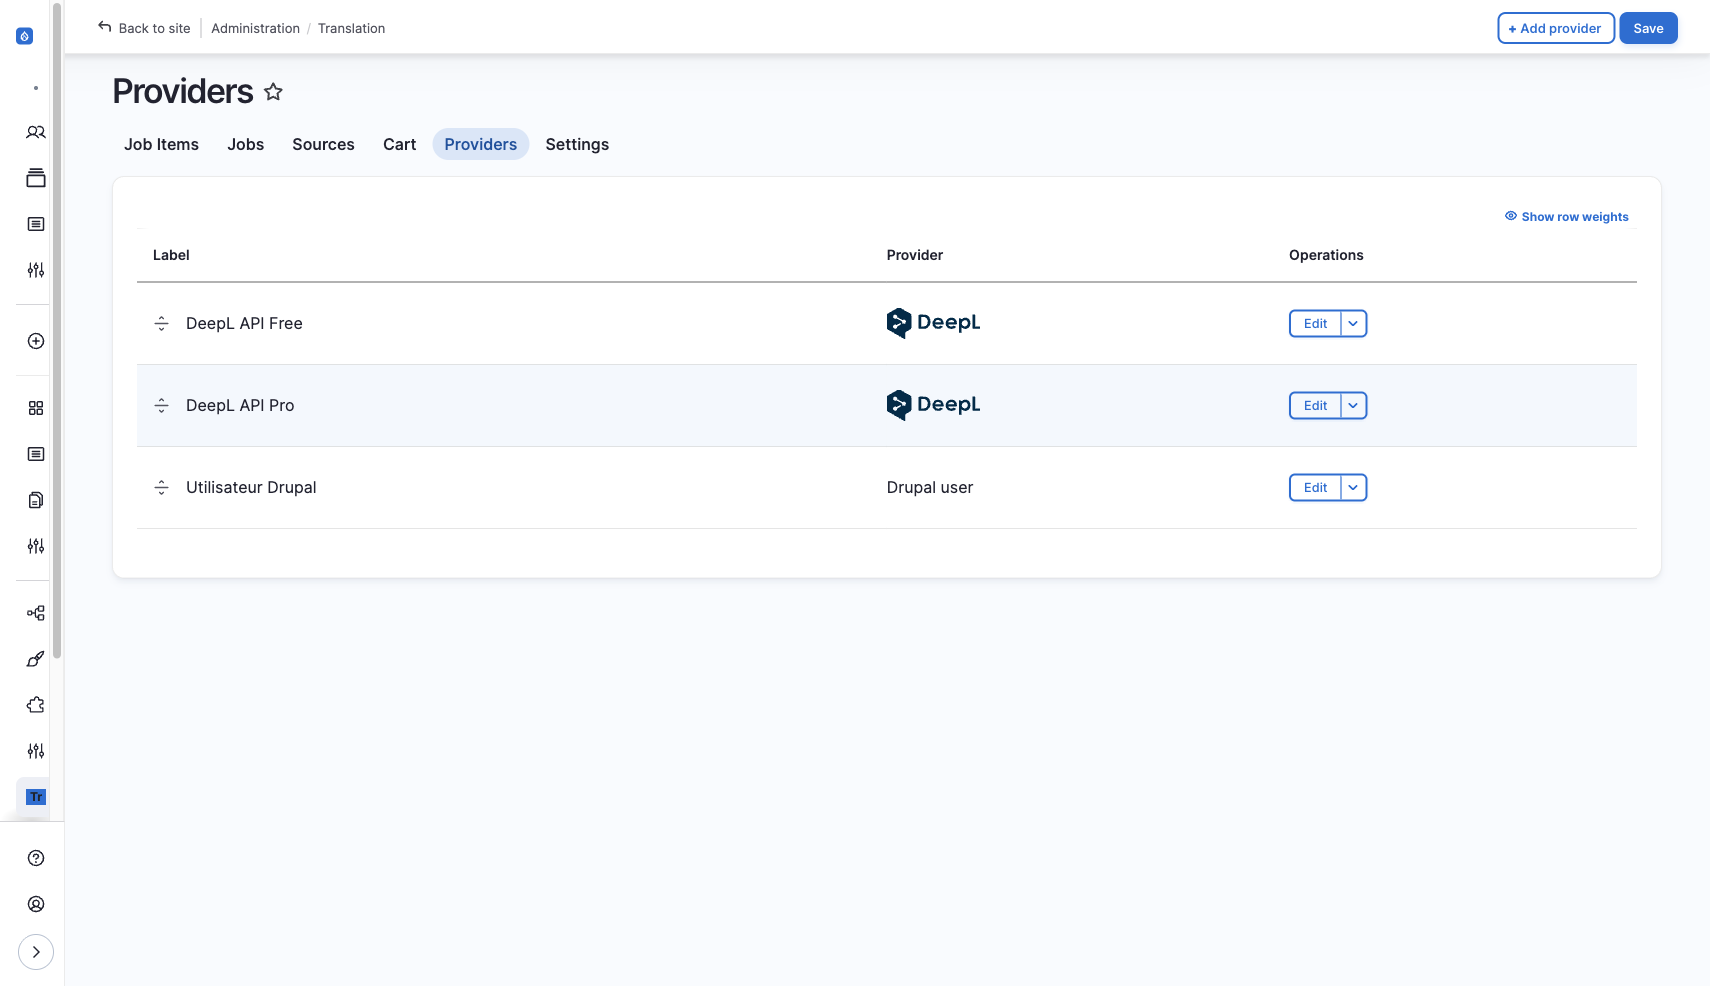
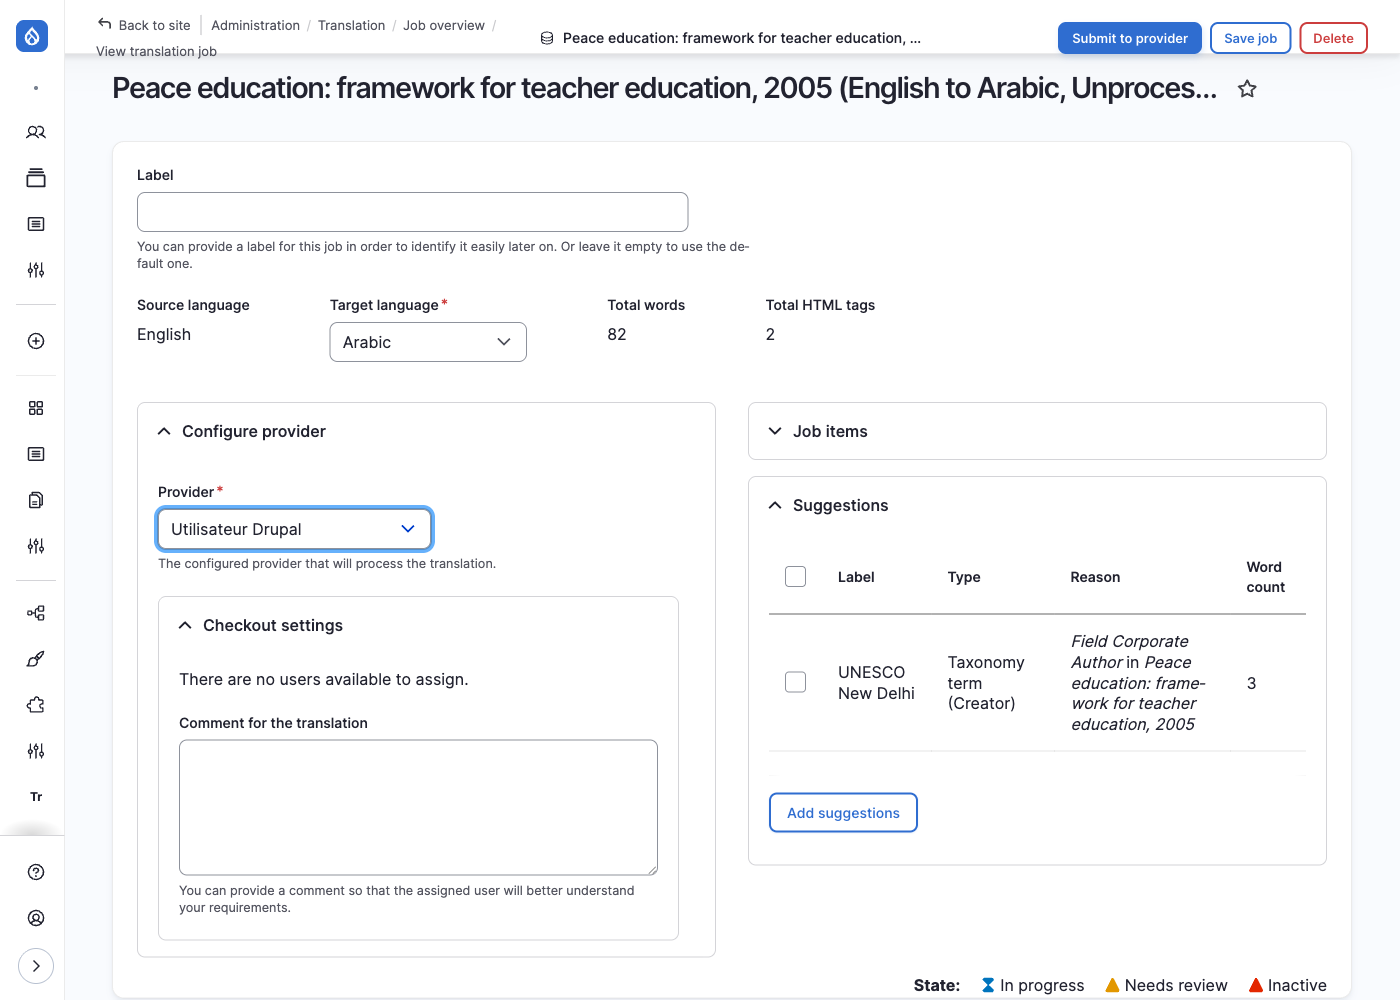
docs(gced): 번역 매뉴얼에 TMGMT Suggestions 기능 설명 추가
- Taxonomy 번역 필요성 및 콘텐츠 번역과의 관계 설명 추가
- Suggestions 확인/추가/번역 진행 워크플로우 문서화
- Provider 선택을 Drupal user로 변경, AI vs 사람 번역 정책 note 추가
- 스크린샷 5개 추가 (Provider 선택, Suggestions 워크플로우, Term 번역)

diff --git a/src/content/docs/gced/manual/06-translation.md b/src/content/docs/gced/manual/06-translation.md
@@ -191,9 +191,13 @@ DB 총괄관리자가 번역담당자에게 번역 업무를 할당합니다.
 
 1. 번역 화면에서 번역할 언어 선택 (체크박스)
 2. **Request translation** 버튼 클릭
-3. **Provider** 드롭다운에서 **Utilisateur Drupal** 선택
+3. **Provider** 드롭다운에서 **Drupal user (드루팔 유저)** 선택
 
-![Provider 선택 화면 - Utilisateur Drupal 선택](../images/translation-provider-drupal-user.png)
+![Provider 선택 화면 - Drupal user 선택](../images/translation-provider-drupal-user.png)
+
+:::note[AI 번역 vs 사람 번역]
+DeepL 등 AI 번역 서비스도 사용 가능하지만, 현재는 사람(유저)에게 번역 업무를 할당하는 정책으로 운영 중입니다.
+:::
 
 4. **Submit to provider** 클릭
 
@@ -244,6 +248,113 @@ DB 총괄관리자가 번역담당자에게 번역 업무를 할당합니다.
 |------|------|
 | **Save** | 검토 상태 유지하고 저장 (수정 필요시) |
 | **Save as completed** | 검토 완료 후 저장 및 공개 |
+
+---
+
+## 3. 관련 Taxonomy 함께 번역하기 (Suggestions)
+
+콘텐츠를 번역할 때, 해당 콘텐츠에 연결된 **Keyword**, **Creator** 등의 Taxonomy Term도 함께 번역해야 할 수 있습니다. TMGMT는 번역이 필요한 Term을 자동으로 감지하여 **Suggestions**(추천) 목록으로 제안합니다.
+
+### 왜 Taxonomy 번역이 필요한가요?
+
+클리어링하우스의 Taxonomy(Keywords, Creator 등)는 기본적으로 영어(English)를 기준으로 등록되어 있습니다. 예를 들어 "Global Citizenship Education", "UNESCO", "Peace Education" 등의 키워드는 영어 원문 그대로 저장되어 있습니다.
+
+하지만 사용자가 프랑스어, 아랍어, 한국어 등 다른 언어로 웹사이트를 이용할 때, 이러한 키워드들도 해당 언어로 표시되어야 합니다. 그래야 검색이나 필터 기능을 사용할 때 사용자가 자신의 언어로 키워드를 찾고 선택할 수 있습니다.
+
+**Taxonomy 번역의 효과:**
+- **검색**: 아랍어 사용자가 아랍어로 키워드를 검색할 수 있음
+- **필터**: 각 언어 사용자가 자국어로 표시된 키워드 필터를 사용할 수 있음
+- **콘텐츠 표시**: 번역된 콘텐츠 페이지에서 키워드도 해당 언어로 표시됨
+
+:::tip[Taxonomy 관리 참고]
+Taxonomy의 기본 구조, 용어 목록 확인, 개별 항목 번역 방법 등 자세한 내용은 **[택소노미 관리](./04-taxonomy)** 문서를 참고하세요. 특히 **키워드 번역** 섹션에서 Translations 배지를 통해 각 용어의 언어별 번역 상태를 확인하고 직접 번역을 추가하는 방법을 설명합니다.
+:::
+
+### 콘텐츠 번역과 Taxonomy 번역의 관계
+
+콘텐츠(Resources, News 등)를 특정 언어로 번역할 때, 해당 콘텐츠에 연결된 Taxonomy Term도 함께 번역해야 완전한 다국어 지원이 됩니다. 이 과정을 별도로 진행하지 않고, **콘텐츠 번역 요청 시 함께 처리**할 수 있도록 TMGMT가 **Suggestions** 기능을 제공합니다.
+
+**워크플로우 예시:**
+
+```mermaid
+flowchart LR
+    A[Resources 번역 요청] --> B{Suggestions 확인}
+    B -->|번역 안 된 Term 있음| C[Term 선택 후 추가]
+    B -->|모두 번역됨| D[콘텐츠만 번역]
+    C --> E[콘텐츠 + Term 함께 번역]
+    D --> F[번역 완료]
+    E --> F
+```
+
+이렇게 하면 콘텐츠 번역과 관련 Taxonomy 번역을 **하나의 번역 Job에서 함께 관리**할 수 있어, 번역 누락을 방지하고 작업 효율성을 높일 수 있습니다.
+
+### Suggestions란?
+
+번역 Job을 생성하면, 시스템이 해당 콘텐츠의 Entity Reference 필드(Keyword, Topic 등)를 검사합니다. 이 필드에 연결된 Taxonomy Term 중 **대상 언어로 아직 번역되지 않은 항목**이 있으면, Suggestions 목록에 자동으로 표시됩니다.
+
+:::tip[예시]
+Resources 콘텐츠를 영어에서 한국어로 번역 요청할 때:
+- 해당 콘텐츠에 연결된 Keyword "Global Citizenship"이 한국어 번역이 없다면
+- Suggestions 목록에 "Global Citizenship" Term이 표시됩니다
+:::
+
+### Suggestions 확인 방법
+
+1. **번역 요청 완료 후** Job 상세 화면으로 이동합니다
+   - 경로: `/admin/tmgmt/jobs/{job_id}`
+
+2. 화면 상단에 **Job items** 테이블이 표시됩니다
+   - 현재 번역 대상 콘텐츠 목록
+
+3. 화면 하단에 **Suggestions** 섹션이 표시됩니다
+   - 함께 번역할 수 있는 Taxonomy Term 목록
+
+![Job 상세 화면 - Suggestions 섹션](../images/translation-suggestions-overview.png)
+
+### Suggestions 추가하기
+
+1. **Suggestions** 목록에서 번역할 Term의 **체크박스**를 선택합니다
+
+![Suggestions 선택](../images/translation-suggestions-select.png)
+
+2. **Add suggestions** 버튼을 클릭합니다
+
+3. 선택한 Term이 **Job items** 테이블에 추가됩니다
+   - 기존 콘텐츠와 함께 별도의 Job Item으로 표시됩니다
+
+![Suggestions 추가 완료](../images/translation-suggestions-added.png)
+
+### 번역 진행
+
+Suggestions로 추가된 Taxonomy Term은 콘텐츠와 **별도로** 번역합니다:
+
+1. **Job items** 테이블에서 번역할 항목의 **Review** 버튼 클릭
+2. 각 Job Item별로 개별 번역 화면이 열립니다
+   - 콘텐츠 번역 화면: `/admin/tmgmt/items/{item_id}`
+   - Term 번역 화면: `/admin/tmgmt/items/{item_id}` (별도 ID)
+3. 각 항목을 번역 후 저장합니다
+
+![Taxonomy Term 번역 화면](../images/translation-term-review.png)
+
+:::note[각 항목을 개별 저장]
+콘텐츠(Node)와 Taxonomy Term은 같은 Job에 포함되어 있어도 **각각의 Review 화면에서 개별적으로 번역하고 저장**해야 합니다. 한 항목을 저장해도 다른 항목이 자동 저장되지 않으니, 모든 Job Item을 순서대로 완료해 주세요.
+:::
+
+### Suggestions가 표시되지 않는 경우
+
+다음 경우에는 Suggestions 목록에 Term이 표시되지 않습니다:
+
+| 상황 | 설명 |
+|------|------|
+| **이미 번역됨** | 해당 Term이 대상 언어로 이미 번역되어 있음 |
+| **이미 Job에 포함됨** | 다른 번역 Job에서 이미 해당 Term을 번역 중 |
+| **번역 대상 아님** | 해당 Taxonomy가 번역 가능하도록 설정되지 않음 |
+
+:::caution[Suggestions가 안 보여요]
+Suggestions 섹션 자체가 보이지 않거나 목록이 비어있다면:
+- 연결된 모든 Term이 이미 번역되었거나
+- 해당 콘텐츠에 Taxonomy Term이 연결되어 있지 않은 것입니다
+:::
 
 ---
 
@@ -323,7 +434,7 @@ flowchart TD
     B -->|직접 번역| C[Add 버튼 클릭]
     B -->|번역 요청| D[Request translation]
     C --> E[번역 입력]
-    D --> F[Utilisateur Drupal 선택]
+    D --> F[Drupal user 선택]
     F --> G[번역담당자에게 할당]
     G --> H[Manage Tasks에서 확인]
     H --> I[번역 진행]
